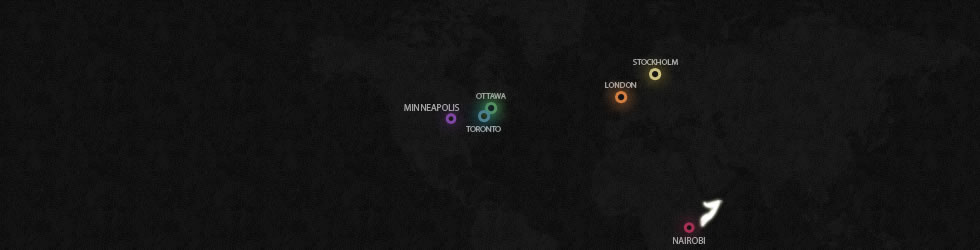
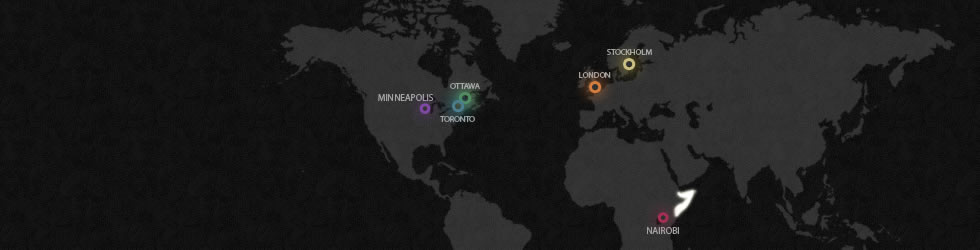
style updates and better map

diff --git a/index.html b/index.html
@@ -74,91 +74,94 @@
     <img src="img/example-frame.png" width="739" height="341" alt="Example Frame" id="frame">
   </div>
 </section>
-<div role="main" class="clearfix">
-  <section>
-    <h1>Welcome to Teach Somalia</h1>
-    <p>Lorem ipsum dolor sit amet, consectetur adipisicing elit, sed do eiusmod tempor incididunt ut labore et dolore magna aliqua. Ut enim ad minim veniam, quis nostrud exercitation ullamco laboris nisi ut aliquip ex ea commodo consequat.</p>
-    <p><a href="#">At vero eos et accusamus et iusto odio dignissimos ducimus qui.</a></p>
 
-    <h2>Why Teach Somalia?</h2>
-    <iframe width="560" height="315" src="http://www.youtube.com/embed/rGwIqcwUxQw" frameborder="0" allowfullscreen></iframe>
-    <ul id="video-thumbnails" class="clearfix">
-      <li><a href="#"><img src="img/video-thumb.jpg" /></a></li>
-      <li><a href="#"><img src="img/video-thumb.jpg" /></a></li>
-      <li><a href="#"><img src="img/video-thumb.jpg" /></a></li>
-      <li><a href="#"><img src="img/video-thumb.jpg" /></a></li>
-      <li><a href="#"><img src="img/video-thumb.jpg" /></a></li>
-    </ul>
+<div id="content-wrapper">
+  <div role="main" class="clearfix">
+    <section>
+      <h1>Welcome to Teach Somalia</h1>
+      <p>Lorem ipsum dolor sit amet, consectetur adipisicing elit, sed do eiusmod tempor incididunt ut labore et dolore magna aliqua. Ut enim ad minim veniam, quis nostrud exercitation ullamco laboris nisi ut aliquip ex ea commodo consequat.</p>
+      <p><a href="#">At vero eos et accusamus et iusto odio dignissimos ducimus qui.</a></p>
 
-    <p>Lorem ipsum dolor sit amet, consectetur adipisicing elit, sed do eiusmod tempor incididunt ut labore et dolore magna aliqua. Ut enim ad minim veniam, quis nostrud exercitation ullamco laboris nisi ut aliquip ex ea commodo consequat.</p>
-    <p><a href="#">At vero eos et accusamus et iusto odio dignissimos ducimus qui.</a></p>
-  </section>
+      <h2>Why Teach Somalia?</h2>
+      <iframe width="560" height="315" src="http://www.youtube.com/embed/rGwIqcwUxQw" frameborder="0" allowfullscreen></iframe>
+      <ul id="video-thumbnails" class="clearfix">
+        <li><a href="#"><img src="img/video-thumb.jpg" /></a></li>
+        <li><a href="#"><img src="img/video-thumb.jpg" /></a></li>
+        <li><a href="#"><img src="img/video-thumb.jpg" /></a></li>
+        <li><a href="#"><img src="img/video-thumb.jpg" /></a></li>
+        <li><a href="#"><img src="img/video-thumb.jpg" /></a></li>
+      </ul>
 
-  <aside id="twitter">
-    <h3>
-      @TeachSomalia
-      <img src="img/twitter-title.png" />
-    </h3>
+      <p>Lorem ipsum dolor sit amet, consectetur adipisicing elit, sed do eiusmod tempor incididunt ut labore et dolore magna aliqua. Ut enim ad minim veniam, quis nostrud exercitation ullamco laboris nisi ut aliquip ex ea commodo consequat.</p>
+      <p><a href="#">At vero eos et accusamus et iusto odio dignissimos ducimus qui.</a></p>
+    </section>
 
-    <p>Duis aute irure dolor in reprehenderit in voluptate velit esse cillum dolore eu fugiat nulla pariatur. <a href="#">10 days ago</a></p>
-    <p>Lorem ipsum dolor sit amet, consectetur adipisicing elit, sed do tempor. <a href="#">10 days ago</a></p>
-    <p>Duis aute irure dolor in reprehenderit in voluptate velit esse cillum dolore eu fugiat nulla pariatur. <a href="#">9 days ago</a></p>
-    <p>Lorem ipsum dolor sit amet, consectetur adipisicing elit, sed do tempor. <a href="#">7 days ago</a></p>
-    <p>Duis aute irure dolor in reprehenderit in voluptate velit esse cillum dolore eu fugiat nulla pariatur. <a href="#">5 days ago</a></p>
-    <p>Lorem ipsum dolor sit amet, consectetur adipisicing elit, sed do tempor. <a href="#">4 days ago</a></p>
+    <aside id="twitter">
+      <h3>
+        @TeachSomalia
+        <img src="img/twitter-title.png" />
+      </h3>
 
-    <ul id="social">
-      <li><a href="#"><img src="img/facebook.png" /></a></li>
-      <li><a href="#"><img src="img/blog.png" /></a></li>
-      <li><a href="#"><img src="img/twitter.png" /></a></li>
-    </ul>
-  </aside>
+      <p>Duis aute irure dolor in reprehenderit in voluptate velit esse cillum dolore eu fugiat nulla pariatur. <a href="#">10 days ago</a></p>
+      <p>Lorem ipsum dolor sit amet, consectetur adipisicing elit, sed do tempor. <a href="#">10 days ago</a></p>
+      <p>Duis aute irure dolor in reprehenderit in voluptate velit esse cillum dolore eu fugiat nulla pariatur. <a href="#">9 days ago</a></p>
+      <p>Lorem ipsum dolor sit amet, consectetur adipisicing elit, sed do tempor. <a href="#">7 days ago</a></p>
+      <p>Duis aute irure dolor in reprehenderit in voluptate velit esse cillum dolore eu fugiat nulla pariatur. <a href="#">5 days ago</a></p>
+      <p>Lorem ipsum dolor sit amet, consectetur adipisicing elit, sed do tempor. <a href="#">4 days ago</a></p>
+
+      <ul id="social">
+        <li><a href="#"><img src="img/facebook.png" /></a></li>
+        <li><a href="#"><img src="img/blog.png" /></a></li>
+        <li><a href="#"><img src="img/twitter.png" /></a></li>
+      </ul>
+    </aside>
+  </div>
+  <footer class="clearfix">
+    <div id="about">
+      <h4>About Teach Somalia</h4>
+      <p>Duis aute irure dolor in reprehenderit in voluptate velit esse cillum dolore eu fugiat nulla pariatur.</p>
+      <p>Lorem ipsum dolor sit amet, consectetur adipisicing elit, sed do eiusmod tempor incididunt ut labore et dolore magna aliqua. Ut enim ad minim veniam.</p>
+    </div>
+
+    <div id="contact">
+      <h4>Contact Teach Somalia</h4>
+      <p>
+        Teach Somalia<br />
+        6th Floor, Bridge House<br />
+        48-52 Baldwin Street<br />
+        Bristol BS1 1QB<br />
+        United Kingdom
+      </p>
+
+      <p>
+        tel: +44 (0)117 915 000<br />
+        fax: +44 (0)117 915 9630<br />
+        email: <a href="mailto:info@teachsomalia.com">info@teachsomalia.com</a>
+      </p>
+    </div>
+
+    <div id="links">
+      <ul>
+        <li><a href="#"><img src="img/moxie.jpg" /></a></li>
+        <li><a href="#"><img src="img/lithium.jpg" /></a></li>
+        <li><a href="#"><img src="img/sas.jpg" /></a></li>
+        <li><a href="#"><img src="img/broadvision.jpg" /></a></li>
+        <li><img src="img/links-ribbon.png" /></li>
+      </ul>
+    </div>
+
+    <nav>
+      <ul>
+        <li><a href="#">HOME</a></li>
+        <li><a href="#">ABOUT US</a></li>
+        <li><a href="#">OUR WORK</a></li>
+        <li><a href="#">CONTACT</a></li>
+      </ul>
+
+      <p>Copyright United for Teach Somalia 2012. All rights reserved.</p>
+    </nav>
+  </footer>
 </div>
-<footer class="clearfix">
-  <div id="about">
-    <h4>About Teach Somalia</h4>
-    <p>Duis aute irure dolor in reprehenderit in voluptate velit esse cillum dolore eu fugiat nulla pariatur.</p>
-    <p>Lorem ipsum dolor sit amet, consectetur adipisicing elit, sed do eiusmod tempor incididunt ut labore et dolore magna aliqua. Ut enim ad minim veniam.</p>
-  </div>
-
-  <div id="contact">
-    <h4>Contact Teach Somalia</h4>
-    <p>
-      Teach Somalia<br />
-      6th Floor, Bridge House<br />
-      48-52 Baldwin Street<br />
-      Bristol BS1 1QB<br />
-      United Kingdom
-    </p>
-
-    <p>
-      tel: +44 (0)117 915 000<br />
-      fax: +44 (0)117 915 9630<br />
-      email: <a href="mailto:info@teachsomalia.com">info@teachsomalia.com</a>
-    </p>
-  </div>
-
-  <div id="links">
-    <ul>
-      <li><a href="#"><img src="img/moxie.jpg" /></a></li>
-      <li><a href="#"><img src="img/lithium.jpg" /></a></li>
-      <li><a href="#"><img src="img/sas.jpg" /></a></li>
-      <li><a href="#"><img src="img/broadvision.jpg" /></a></li>
-      <li><img src="img/links-ribbon.png" /></li>
-    </ul>
-  </div>
-
-  <nav>
-    <ul>
-      <li><a href="#">HOME</a></li>
-      <li><a href="#">ABOUT US</a></li>
-      <li><a href="#">OUR WORK</a></li>
-      <li><a href="#">CONTACT</a></li>
-    </ul>
-
-    <p>Copyright United for Teach Somalia 2012. All rights reserved.</p>
-  </nav>
-</footer>
 
 <script src="//ajax.googleapis.com/ajax/libs/jquery/1.7.2/jquery.min.js"></script>
 <script>window.jQuery || document.write('<script src="js/libs/jquery-1.7.2.min.js"><\/script>')</script>

diff --git a/css/style.css b/css/style.css
@@ -307,12 +307,20 @@ section div#slides-wrapper {
   background-position:0 -12px;
 }
 
+/* main content */
+div#content-wrapper {
+  background: url(../img/main-bg.jpg) repeat;
+  width: 940px;
+  margin: 0 auto;
+  padding: 0 20px;
+}
+
 /* Main */
 div[role='main'] {
-  width: 980px;
+  width: 940px;
   padding: 40px 0 50px 0;
   margin: 0 auto;
-  background: url(../img/main-bg.jpg) repeat;
+  background: url(../img/footer-bg.png) bottom repeat-x;
 }
 
 div[role='main'] section {
@@ -328,15 +336,15 @@ div[role='main'] h1, div[role='main'] h2, div[role='main'] h3 {
 }
 
 div[role='main'] h1 {
-  font-size: 44px;
+  font-size: 36px;
 }
 
 div[role='main'] h2 {
-  font-size: 40px;
+  font-size: 30px;
 }
 
 div[role='main'] h3 {
-  font-size: 36px;
+  font-size: 26px;
 }
 
 div[role='main'] section ul#video-thumbnails {
@@ -358,7 +366,7 @@ div[role='main'] section ul#video-thumbnails li a {
 
 div[role='main'] aside {
   float: right;
-  width: 360px;
+  width: 340px;
 }
 
 div[role='main'] aside ul#social {
@@ -374,11 +382,10 @@ div[role='main'] aside ul#social li {
 /* Footer */
 
 footer {
-  width: 980px;
+  width: 940px;
   margin: 0 auto;
   padding: 30px 0;
   font-size: 14px;
-	background: url(../img/main-bg.jpg) repeat;
 }
 
 footer h4 {
@@ -398,13 +405,13 @@ footer>div {
 
 footer div#about {
   float: left;
-  width: 300px;
+  width: 280px;
   margin-right: 30px;
 }
 
 footer div#contact {
   float: left;
-  width: 250px;
+  width: 230px;
 }
 
 footer div#links {
